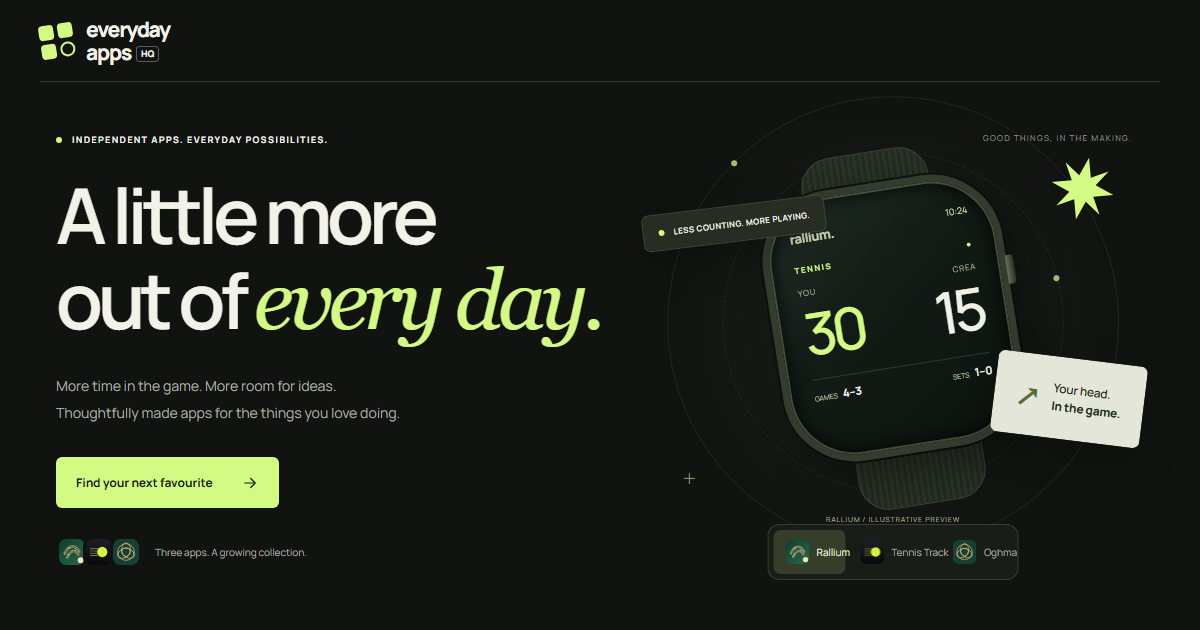
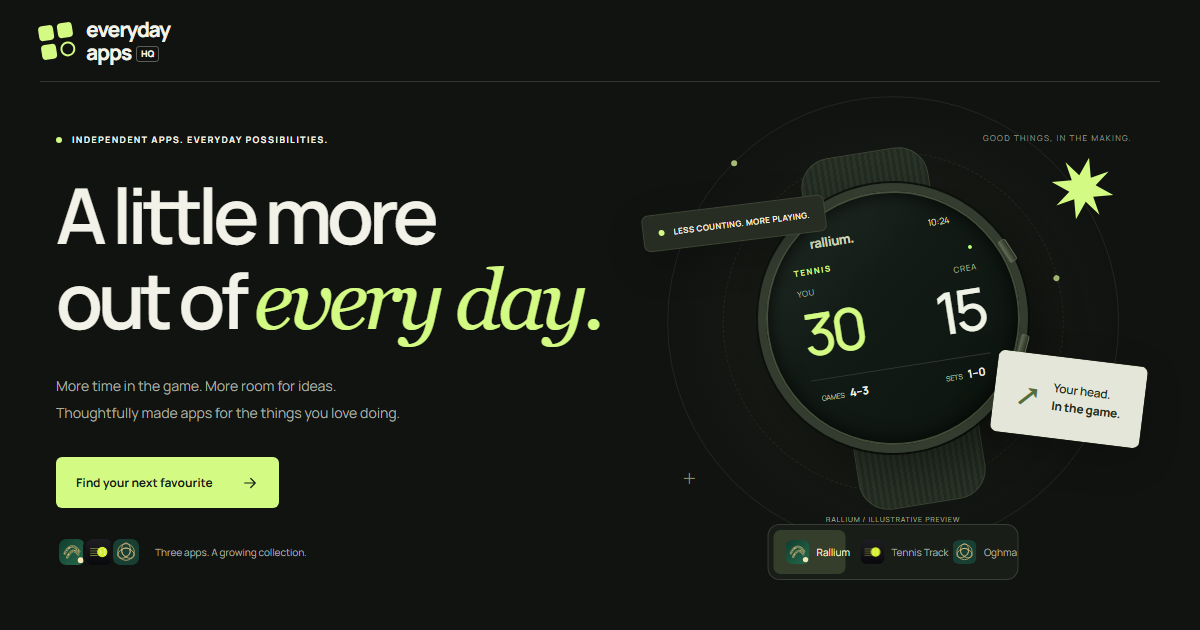
Use a round Wear OS watch in the app showcase
Replace the rounded-square preview with a circular bezel and two side buttons, fit the score layout to the round display across breakpoints, and refresh the platform icons and social image.

Changed region(s): [[0.6167, 0.3619, 0.8325, 0.754], [0.6783, 0.2714, 0.8633, 0.573], [0.7708, 0.573, 0.8325, 0.6032]]

diff --git a/styles.css b/styles.css
@@ -89,20 +89,22 @@ h1 .serif { display: inline-block; padding-right: .07em; font-size: 1.08em; }
 .note-sport { left: 0; top: 65px; transform: rotate(-7deg); }
 .note-match { right: 0; bottom: 70px; gap: 13px; padding: 16px 21px; background: #e4e6d9; color: #253020; font-size: 12px; line-height: 1.5; transform: rotate(7deg); letter-spacing: -.02em; }
 .tiny-arrow { font-size: 32px; color: #536e38; }
-.hero-watch { position: absolute; width: 242px; height: 273px; left: 50%; top: 48%; padding: 27px 24px; transform: translate(-50%, -50%) rotate(-9deg); background: linear-gradient(140deg, #253029, #121b16 40%, #0c140e); border: 7px solid #343c30; border-radius: 72px; box-shadow: inset 0 0 0 2px #8f9c7370, inset 0 0 20px #000, 15px 22px 40px #0005, 0 0 0 2px #0e130d; z-index: 2; }
-.hero-watch::after { content: ""; position: absolute; right: -14px; top: 85px; width: 8px; height: 29px; background: linear-gradient(90deg, #66705a, #283021); border-radius: 0 4px 4px 0; }
+.hero-watch { position: absolute; width: 270px; height: 270px; left: 50%; top: 48%; padding: 32px 36px; transform: translate(-50%, -50%) rotate(-9deg); background: linear-gradient(140deg, #253029, #121b16 40%, #0c140e); border: 8px solid #343c30; border-radius: 50%; box-shadow: inset 0 0 0 2px #8f9c7370, inset 0 0 20px #000, 15px 22px 40px #0005, 0 0 0 2px #0e130d; z-index: 2; }
+.hero-watch::before, .hero-watch::after { content: ""; position: absolute; right: -1px; width: 7px; height: 23px; background: linear-gradient(90deg, #66705a, #283021); border: 1px solid #66705a70; border-radius: 3px; transform: rotate(-24deg); }
+.hero-watch::before { top: 26%; }
+.hero-watch::after { bottom: 26%; transform: rotate(24deg); }
 .watch-strap { position: absolute; width: 128px; height: 150px; left: 50%; background: repeating-linear-gradient(90deg, #2b3328 0 3px, #222b20 3px 6px); border: 1px solid #3c4635; transform: translateX(-50%) rotate(-9deg); }
 .strap-top { top: 12px; border-radius: 30px 30px 0 0; margin-left: -21px; }
 .strap-bottom { bottom: 5px; border-radius: 0 0 30px 30px; margin-left: 22px; }
-.watch-topline { display: flex; justify-content: space-between; font-size: 9px; color: #d2dbbf; }
+.watch-topline { display: flex; justify-content: space-between; margin-inline: 20px; font-size: 9px; color: #d2dbbf; }
 .watch-topline span:first-child { font-size: 13px; font-weight: 800; letter-spacing: -.04em; }
-.watch-sport { margin-top: 17px; color: var(--lime); font-size: 8px; font-weight: 700; letter-spacing: .2em; }
+.watch-sport { margin-top: 12px; color: var(--lime); font-size: 8px; font-weight: 700; letter-spacing: .2em; }
 .watch-sport span { float: right; }
-.watch-players { display: flex; justify-content: space-between; margin-top: 12px; color: #a6b397; font-size: 8px; letter-spacing: .1em; }
+.watch-players { display: flex; justify-content: space-between; margin-top: 10px; color: #a6b397; font-size: 8px; letter-spacing: .1em; }
 .watch-score { display: flex; justify-content: space-between; color: var(--lime); font-size: 58px; font-weight: 500; letter-spacing: -.08em; line-height: 1.25; }
 .watch-score span:last-child { color: #eff3e5; }
 .watch-divider { border-top: 1px solid #ffffff24; margin-block: 9px; }
-.watch-bottom { display: flex; justify-content: space-between; font-size: 7px; color: #b6c1a8; }
+.watch-bottom { display: flex; justify-content: space-between; margin-inline: 8px; font-size: 7px; color: #b6c1a8; }
 .watch-bottom b { margin-left: 4px; color: #f3f2e9; font-size: 11px; }
 .preview-caption { position: absolute; bottom: -14px; width: 100%; text-align: center; font-size: 7px; letter-spacing: .12em; color: #a1ab93; }
 .preview-tabs { position: absolute; bottom: 0; left: 50%; transform: translateX(-50%); display: flex; padding: 5px; gap: 3px; border: 1px solid var(--line); border-radius: 12px; background: #191d17; white-space: nowrap; }
@@ -306,7 +308,7 @@ html[data-motion="off"] *, html[data-motion="off"] *::before, html[data-motion="
   h1 { font-size: 65px; }
   .hero-copy .eyebrow { font-size: 8px; letter-spacing: .09em; }
   .playground { height: 460px; }
-  .hero-watch { width: 220px; height: 257px; padding: 25px 20px; border-radius: 65px; }
+  .hero-watch { width: 250px; height: 250px; padding: 28px 32px; }
   .watch-score { font-size: 54px; }
   .note-sport { font-size: 6px; padding: 10px 12px; }
   .note-match { font-size: 10px; padding: 12px 14px; }
@@ -336,11 +338,11 @@ html[data-motion="off"] *, html[data-motion="off"] *::before, html[data-motion="
   .hero-footnote img { width: 27px; height: 27px; }
   .button { font-size: 10px; gap: 18px; padding: 13px 15px; }
   .playground { height: 410px; }
-  .hero-watch { width: 190px; height: 234px; padding: 25px 17px; border-radius: 59px; }
+  .hero-watch { width: 220px; height: 220px; padding: 24px 28px; }
   .watch-score { font-size: 43px; }
   .watch-topline span:first-child { font-size: 11px; }
   .watch-topline { font-size: 7px; }
-  .watch-sport { margin-top: 15px; font-size: 7px; }
+  .watch-sport { margin-top: 10px; font-size: 7px; }
   .watch-bottom { font-size: 6px; }
   .watch-bottom b { font-size: 9px; }
   .watch-strap { width: 102px; height: 125px; }
@@ -445,7 +447,7 @@ html[data-motion="off"] *, html[data-motion="off"] *::before, html[data-motion="
   .coordinate-top { top: 2px; right: 0; font-size: 6px; }
   .stage-spark { width: 47px; height: 47px; top: 8%; right: 6%; }
   .preview-panel { inset: 15px 10px 75px; }
-  .hero-watch { width: 220px; height: 250px; border-radius: 65px; padding: 25px 20px; top: 46%; }
+  .hero-watch { width: 240px; height: 240px; padding: 26px 30px; top: 46%; }
   .watch-score { font-size: 52px; }
   .watch-topline { font-size: 8px; }
   .watch-topline span:first-child { font-size: 13px; }

diff --git a/index.html b/index.html
@@ -39,7 +39,7 @@
       <symbol id="i-spark" viewBox="0 0 80 80"><path d="m40 0 7.5 24.5L68 12 55.5 32.5 80 40l-24.5 7.5L68 68 47.5 55.5 40 80l-7.5-24.5L12 68l12.5-20.5L0 40l24.5-7.5L12 12l20.5 12.5Z" fill="currentColor" stroke="none"/></symbol>
       <symbol id="i-grid" viewBox="0 0 24 24"><rect x="3" y="3" width="7" height="7" rx="1"/><rect x="14" y="3" width="7" height="7" rx="1"/><rect x="3" y="14" width="7" height="7" rx="1"/><rect x="14" y="14" width="7" height="7" rx="1"/></symbol>
       <symbol id="i-windows" viewBox="0 0 24 24"><path d="M3 3h8v8H3zm10 0h8v8h-8zM3 13h8v8H3zm10 0h8v8h-8z" fill="currentColor" stroke="none"/></symbol>
-      <symbol id="i-watch" viewBox="0 0 24 24"><rect x="5" y="6" width="14" height="12" rx="4"/><path d="m8 6 1-4h6l1 4M8 18l1 4h6l1-4m-4-9v3l2 1"/></symbol>
+      <symbol id="i-watch" viewBox="0 0 24 24"><circle cx="12" cy="12" r="7"/><path d="m8 6 1-4h6l1 4M8 18l1 4h6l1-4m-4-9v3l2 1"/></symbol>
       <symbol id="i-focus" viewBox="0 0 24 24"><path d="M9 3H3v6m12-6h6v6M3 15v6h6m12-6v6h-6"/><circle cx="12" cy="12" r="3"/></symbol>
       <symbol id="i-heart" viewBox="0 0 24 24"><path d="m12 21-8-8C-2 7 6-1 12 6c6-7 14 1 8 7Z"/></symbol>
       <symbol id="i-plus" viewBox="0 0 24 24"><path d="M12 4v16M4 12h16"/></symbol>
@@ -88,7 +88,7 @@
         <div class="preview-panel preview-rallium" id="preview-rallium" role="tabpanel" aria-labelledby="tab-rallium" tabindex="0">
           <div class="floating-note note-sport"><span class="status-dot"></span> LESS COUNTING. MORE PLAYING.</div>
           <div class="watch-strap strap-top" aria-hidden="true"></div>
-          <div class="hero-watch" aria-label="Illustrative Rallium watch: you 30, Crea 15, games 4 to 3">
+          <div class="hero-watch" aria-label="Illustrative Rallium on a round Wear OS watch: you 30, Crea 15, games 4 to 3">
             <div class="watch-topline"><span>rallium.</span><span>10:24</span></div>
             <div class="watch-sport">TENNIS <span>●</span></div>
             <div class="watch-players"><span>YOU</span><span>CREA</span></div>
